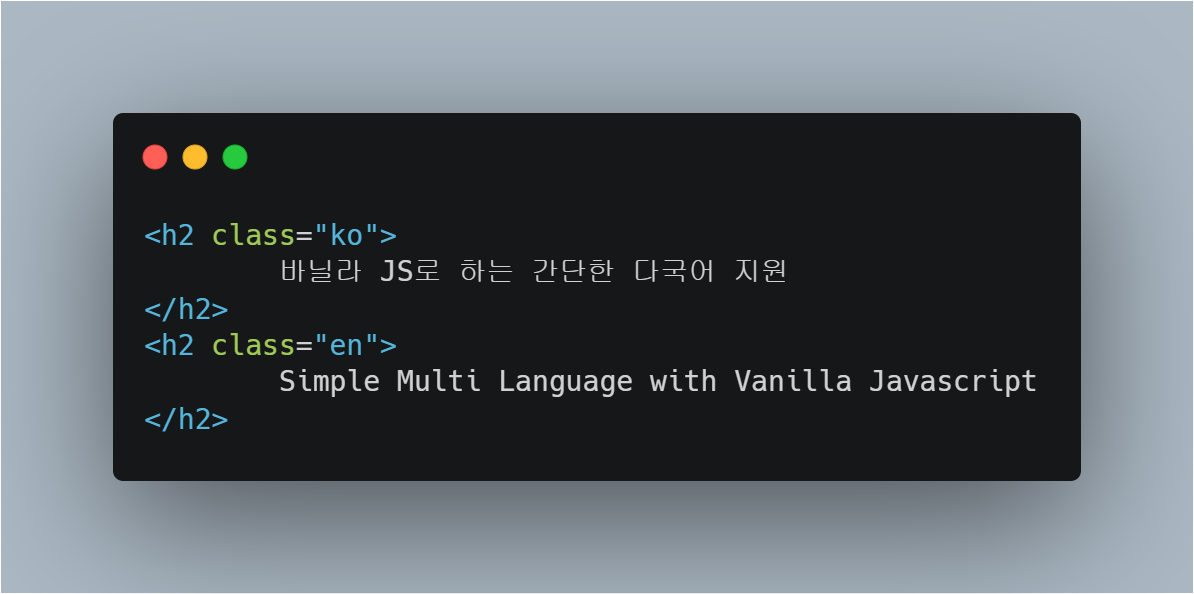
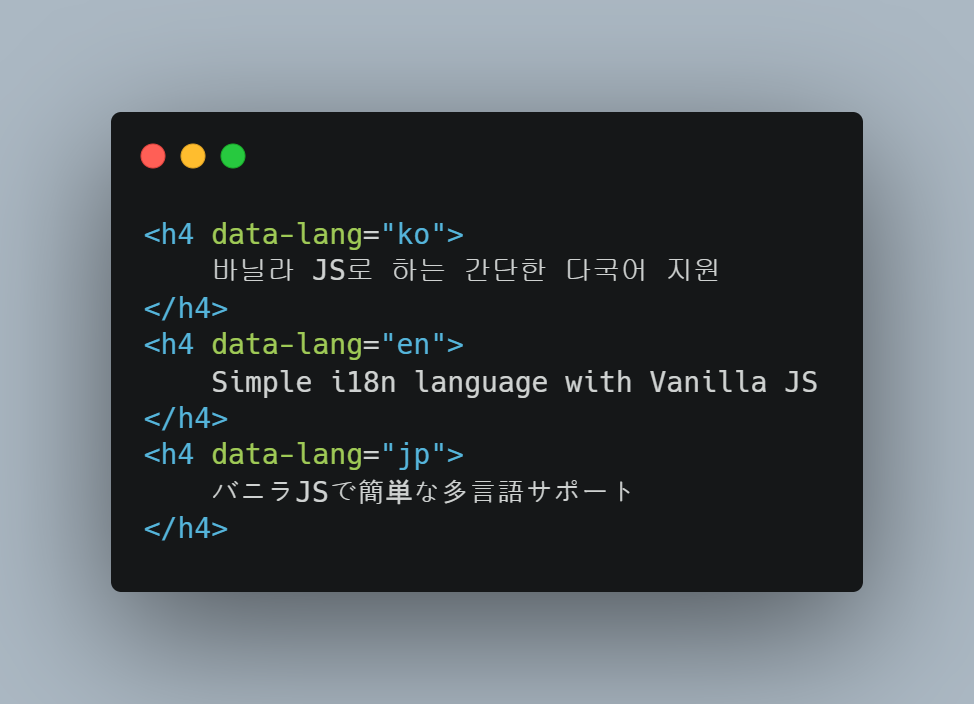
Change: 여러 언어 대응 가능하게함, i18n-language로 이름 변경

diff --git a/example/example.html b/example/example.html
@@ -2,7 +2,7 @@
 <html lang="en">
 <head>
     <meta charset="UTF-8">
-    <title>multilanguage.js</title>
+    <title>i18n-language.js</title>
     <style>
         img {
             width: 500px;
@@ -13,27 +13,36 @@
 <body>
     <div style="width: 70%; margin: 50px auto 200px auto;">
         <h1>
-            multilanguage.js <br>
+            i18n-language.js <br>
         </h1>
-        <h4 class="ko">
-                바닐라 JS로 하는 간단한 다국어 지원
+        <h4 data-lang="ko">
+            바닐라 JS로 하는 간단한 다국어 지원
         </h4>
-        <h2 class="en">
-                Simple Multi Language with Vanilla Javascript
-        </h2>
+        <h4 data-lang="en">
+            Simple i18n language with Vanilla JS
+        </h4>
+        <h4 data-lang="jp">
+            バニラJSで簡単な多言語サポート
+        </h4>
 
-        <span class="ko">
+        <span data-lang="ko">
             작성자: 신 현
         </span>
-        <span class="en">
+        <span data-lang="en">
+            Write by Hyun SHIN
+        </span>
+        <span data-lang="jp">
             Write by Hyun SHIN
         </span>
         <br>
-        <span class="ko">
+        <span data-lang="ko">
             언어:
         </span>
-        <span class="en">
+        <span data-lang="en">
             Language:
+        </span>
+        <span data-lang="jp">
+            言語:
         </span>
         <select id="change-language">
             <option value="ko" selected="selected">
@@ -42,15 +51,20 @@
             <option value="en">
                 English
             </option>
+            <option value="jp">
+                Japanese
+            </option>
         </select> <br>
-
-        <h2 class="ko">
+        <h2 data-lang="ko">
             소개
         </h2>
-        <h2 class="en">
+        <h2 data-lang="en">
             Introduce
         </h2>
-        <div class="ko">
+        <h2 data-lang="jp">
+            はじめに
+        </h2>
+        <div data-lang="ko">
             이미 다양한 다국어 지원 방법이 있겠지만, 기존 수많은 방법들에 비해 이 프로젝트의 장점은 다음과 같다. <br>
             <ul>
                 <li>
@@ -62,9 +76,15 @@
                 <li>
                     HTML, CSS, JS만 사용되어 프론트엔드 입문자도 쉽게 사용 가능하다.
                 </li>
+                <li>
+                    처음 방문시 브라우저 설정값으로 언어를 설정하고, 설정값이 없다면 영어를 우선으로 띄운다.
+                </li>
+                <li>
+                    언어 변경시 Local Storage에 저장하여, 재방문시 해당 언어로 표기한다.
+                </li>
             </ul>
         </div>
-        <div class="en">
+        <div data-lang="en">
             There are a lot of approaches to internationalisation, but this project offers unique advantages like: followings.
             <ul>
                 <li>
@@ -76,33 +96,64 @@
                 <li>
                     Written in pure HTML/CSS/JS so beginners can use it easily
                 </li>
+                <li>
+                    When visiting for the first time, the language is set as the browser setting value, and if there is no setting value, English is displayed first
+                </li>
+                <li>
+                    When the language is changed, it is stored in the local storage and displayed in the corresponding language when revisiting
+                </li>
+            </ul>
+        </div>
+        <div data-lang="jp">
+            すでに様々な多言語サポートの方法があるが、従来の多数の方法に比べて、このプロジェクトの利点は、以下の通りである。<br>
+            <ul>
+                <li>
+                    HTMLでテキストが表示される部分に翻訳を作成することができる。
+                </li>
+                <li>
+                    48行実装されたシンプルなJSファイル
+                </li>
+                <li>
+                    HTML、CSS、JSのみ使用されて、フロントエンド入門者でも容易に使用可能である。
+                </li>
+                <li>
+                    最初の訪問時にブラウザの設定値に言語を設定し、設定値がない場合は、英語を優先的に浮かべる。
+                </li>
+                <li>
+                    言語を変更する時Local Storageに保存して、再訪問時に、その言語で表記する。
+                </li>
             </ul>
         </div>
 
-        <h2 class="ko">사용법</h2>
-        <h2 class="en">Usage</h2>
+        <h2 data-lang="ko">사용법</h2>
+        <h2 data-lang="en">Usage</h2>
+        <h2 data-lang="jp">使い方</h2>
         <h4>HTML</h4>
         <img src="./image/example-html.png"  alt=""/> <br>
         <img src="./image/example-select.png"  alt=""/>
         <h4>JS</h4>
 
-        <span class="ko">multilanguage.js를 다운로드하고 아래 코드를 작성한다.</span>
-        <span class="en">Download multilanguage.js and write this code. </span>
+        <span data-lang="ko">i18n-language.js를 다운로드하고 아래 코드를 작성한다.</span>
+        <span data-lang="en">Download i18n-language.js and write this code. </span>
+        <span data-lang="jp">i18n-language.jsをダウンロードして、以下のコードを作成する。</span>
         <br>
         <img src="image/example-js.png" alt=""/>
         <br>
-        <span class="ko">다운로드하지 않고 링크로 사용하는 방법은 다음과 같다.</span>
-        <span class="en">If you want use just link,</span>
+        <span data-lang="ko">다운로드하지 않고 링크로 사용하는 방법은 다음과 같다.</span>
+        <span data-lang="en">If you want use just link,</span>
+        <span data-lang="jp">ダウンロードせずにリンクとして使用する方法は次のとおりである。</span>
         <br>
         <img src="image/example-js-2.png" alt=""/>
 
 
-        <h2 class="ko">링크</h2>
-        <h2 class="en">Link</h2>
-        <a href="https://github.com/kyaryunha/multilanguage.js" target="_blank" style="text-decoration: none; color: deepskyblue; font-weight: bold" >
-            https://github.com/kyaryunha/multilanguage.js
+        <h2 data-lang="ko">링크</h2>
+        <h2 data-lang="en">Link</h2>
+        <h2 data-lang="jp">リンク</h2>
+        <a href="https://github.com/kyaryunha/i18n-language.js" target="_blank" style="text-decoration: none; color: deepskyblue; font-weight: bold" >
+            https://github.com/kyaryunha/i18n-language.js
         </a>
-        <script type="text/javascript" src="https://unpkg.com/i18n-multilanguage@1.0.0/multilanguage.js"></script>
+<!--        <script type="text/javascript" src=".././i18n-language.js"></script>-->
+        <script type="text/javascript" src="https://unpkg.com/i18n-language@1.0.3/i18n-language.js"></script>
     </div>
 </body>
 </html>

diff --git a/i18n-language.js b/i18n-language.js
@@ -1,5 +1,5 @@
 /**************************
- *     Multi Language
+ *    i18n-language.js
  *     Write by Shin Hyun (kyaryunha)
  *     Github: https://github.com/kyaryunha
  **************************/
@@ -8,14 +8,13 @@
     style.innerHTML = ".unselect-language{display: none;}";
     document.getElementsByTagName('head')[0].appendChild(style);
     function setLanguage(currentLanguage) {
-        let notCurrentLanguage = currentLanguage === "ko"?"en":"ko";
-        let notCurrentTagNames = document.querySelectorAll("." + notCurrentLanguage);
+        let notCurrentTagNames = document.querySelectorAll("[data-lang]");
          notCurrentTagNames.forEach(function (tag) {
             if ( !tag.classList.contains("unselect-language")) {
                 tag.classList.add("unselect-language");
             }
         });
-        let currentTagNames = document.querySelectorAll("."+currentLanguage);
+        let currentTagNames = document.querySelectorAll(`[data-lang="${currentLanguage}"]`);
          currentTagNames.forEach(function (tag) {
             if ( tag.classList.contains("unselect-language")) {
                 tag.classList.remove("unselect-language");
@@ -36,10 +35,12 @@
         let localLang = null;
         try {
             localLang = localStorage.getItem('lang');
-        } catch (e) {
-        }
+        } catch (e) {}
         if(localLang !== null) lang = localLang;
-        if(lang !== 'ko') lang = 'en';
+        let isExist = document.querySelectorAll(`[data-lang="${lang}"]`);
+        if (isExist.length === 0) {
+            lang = "en";
+        }
         return lang;
     }
     document.getElementById("change-language").addEventListener("change", function (e) {
@@ -48,6 +49,5 @@
     try{
         setLanguage(getLanguage());
     }
-    catch (e) {
-    }
+    catch (e) {}
 })();

diff --git a/README.md b/README.md
@@ -1,10 +1,10 @@
-# MultiLanguage.js
+# i18n-language.js
 
-multilanguage.js is Simple Multi Language with Vanilla Javascript
+i18n-language.js is Simple i18n language with Vanilla Javascript
 
 Write by Hyun SHIN
 
-Demo Page: http://kyaryunha.com/multilanguage
+Demo Page: http://kyaryunha.com/i18n-language
 
 
 
@@ -15,7 +15,8 @@ There are a lot of approaches to internationalisation, but this project offers u
 - Inline translation in HTML documents
 - Lightweight JS implementation in 48 lines
 - Written in pure HTML/CSS/JS so beginners can use it easily
-
+- When visiting for the first time, the language is set as the browser setting value, and if there is no setting value, English is displayed first
+- When the language is changed, it is stored in the local storage and displayed in the corresponding language when revisiting
 
 
 ## Usage:
@@ -24,36 +25,41 @@ There are a lot of approaches to internationalisation, but this project offers u
 
 ```html
 <!-- Example -->
-<h2 class="ko">
+<h4 data-lang="ko">
     바닐라 JS로 하는 간단한 다국어 지원
-</h2>
-<h2 class="en">
-    Simple Multi Language with Vanilla Javascript
-</h2> 
-
+</h4>
+<h4 data-lang="en">
+    Simple i18n language with Vanilla JS
+</h4>
+<h4 data-lang="jp">
+    バニラJSで簡単な多言語サポート
+</h4>
 <!-- How To Change Language -->
 <select id="change-language">
-	<option value="ko" selected="selected">
-		Korean
-	</option>
-	<option value="en">
-		English
-	</option>
-</select>
+    <option value="ko" selected="selected">
+        Korean
+    </option>
+    <option value="en">
+        English
+    </option>
+    <option value="jp">
+        Japanese
+    </option>
+</select> 
 ```
 
 
 #### JS
-Download multilanguage.js and write this code. 
+Download i18n-language.js and write this code. 
 
 ```js
-<script type="text/javascript" src="./multilanguage.js"></script>
+<script type="text/javascript" src="./i18n-language.js"></script>
 ```
 
 If you want use just link, 
 
 ```javascript
-<script type="text/javascript" src="https://unpkg.com/i18n-multilanguage@1.0.0/multilanguage.js"></script>
+<script type="text/javascript" src="https://unpkg.com/i18n-language@1.0.4/i18n-language.js"></script>
 ```
 
 
